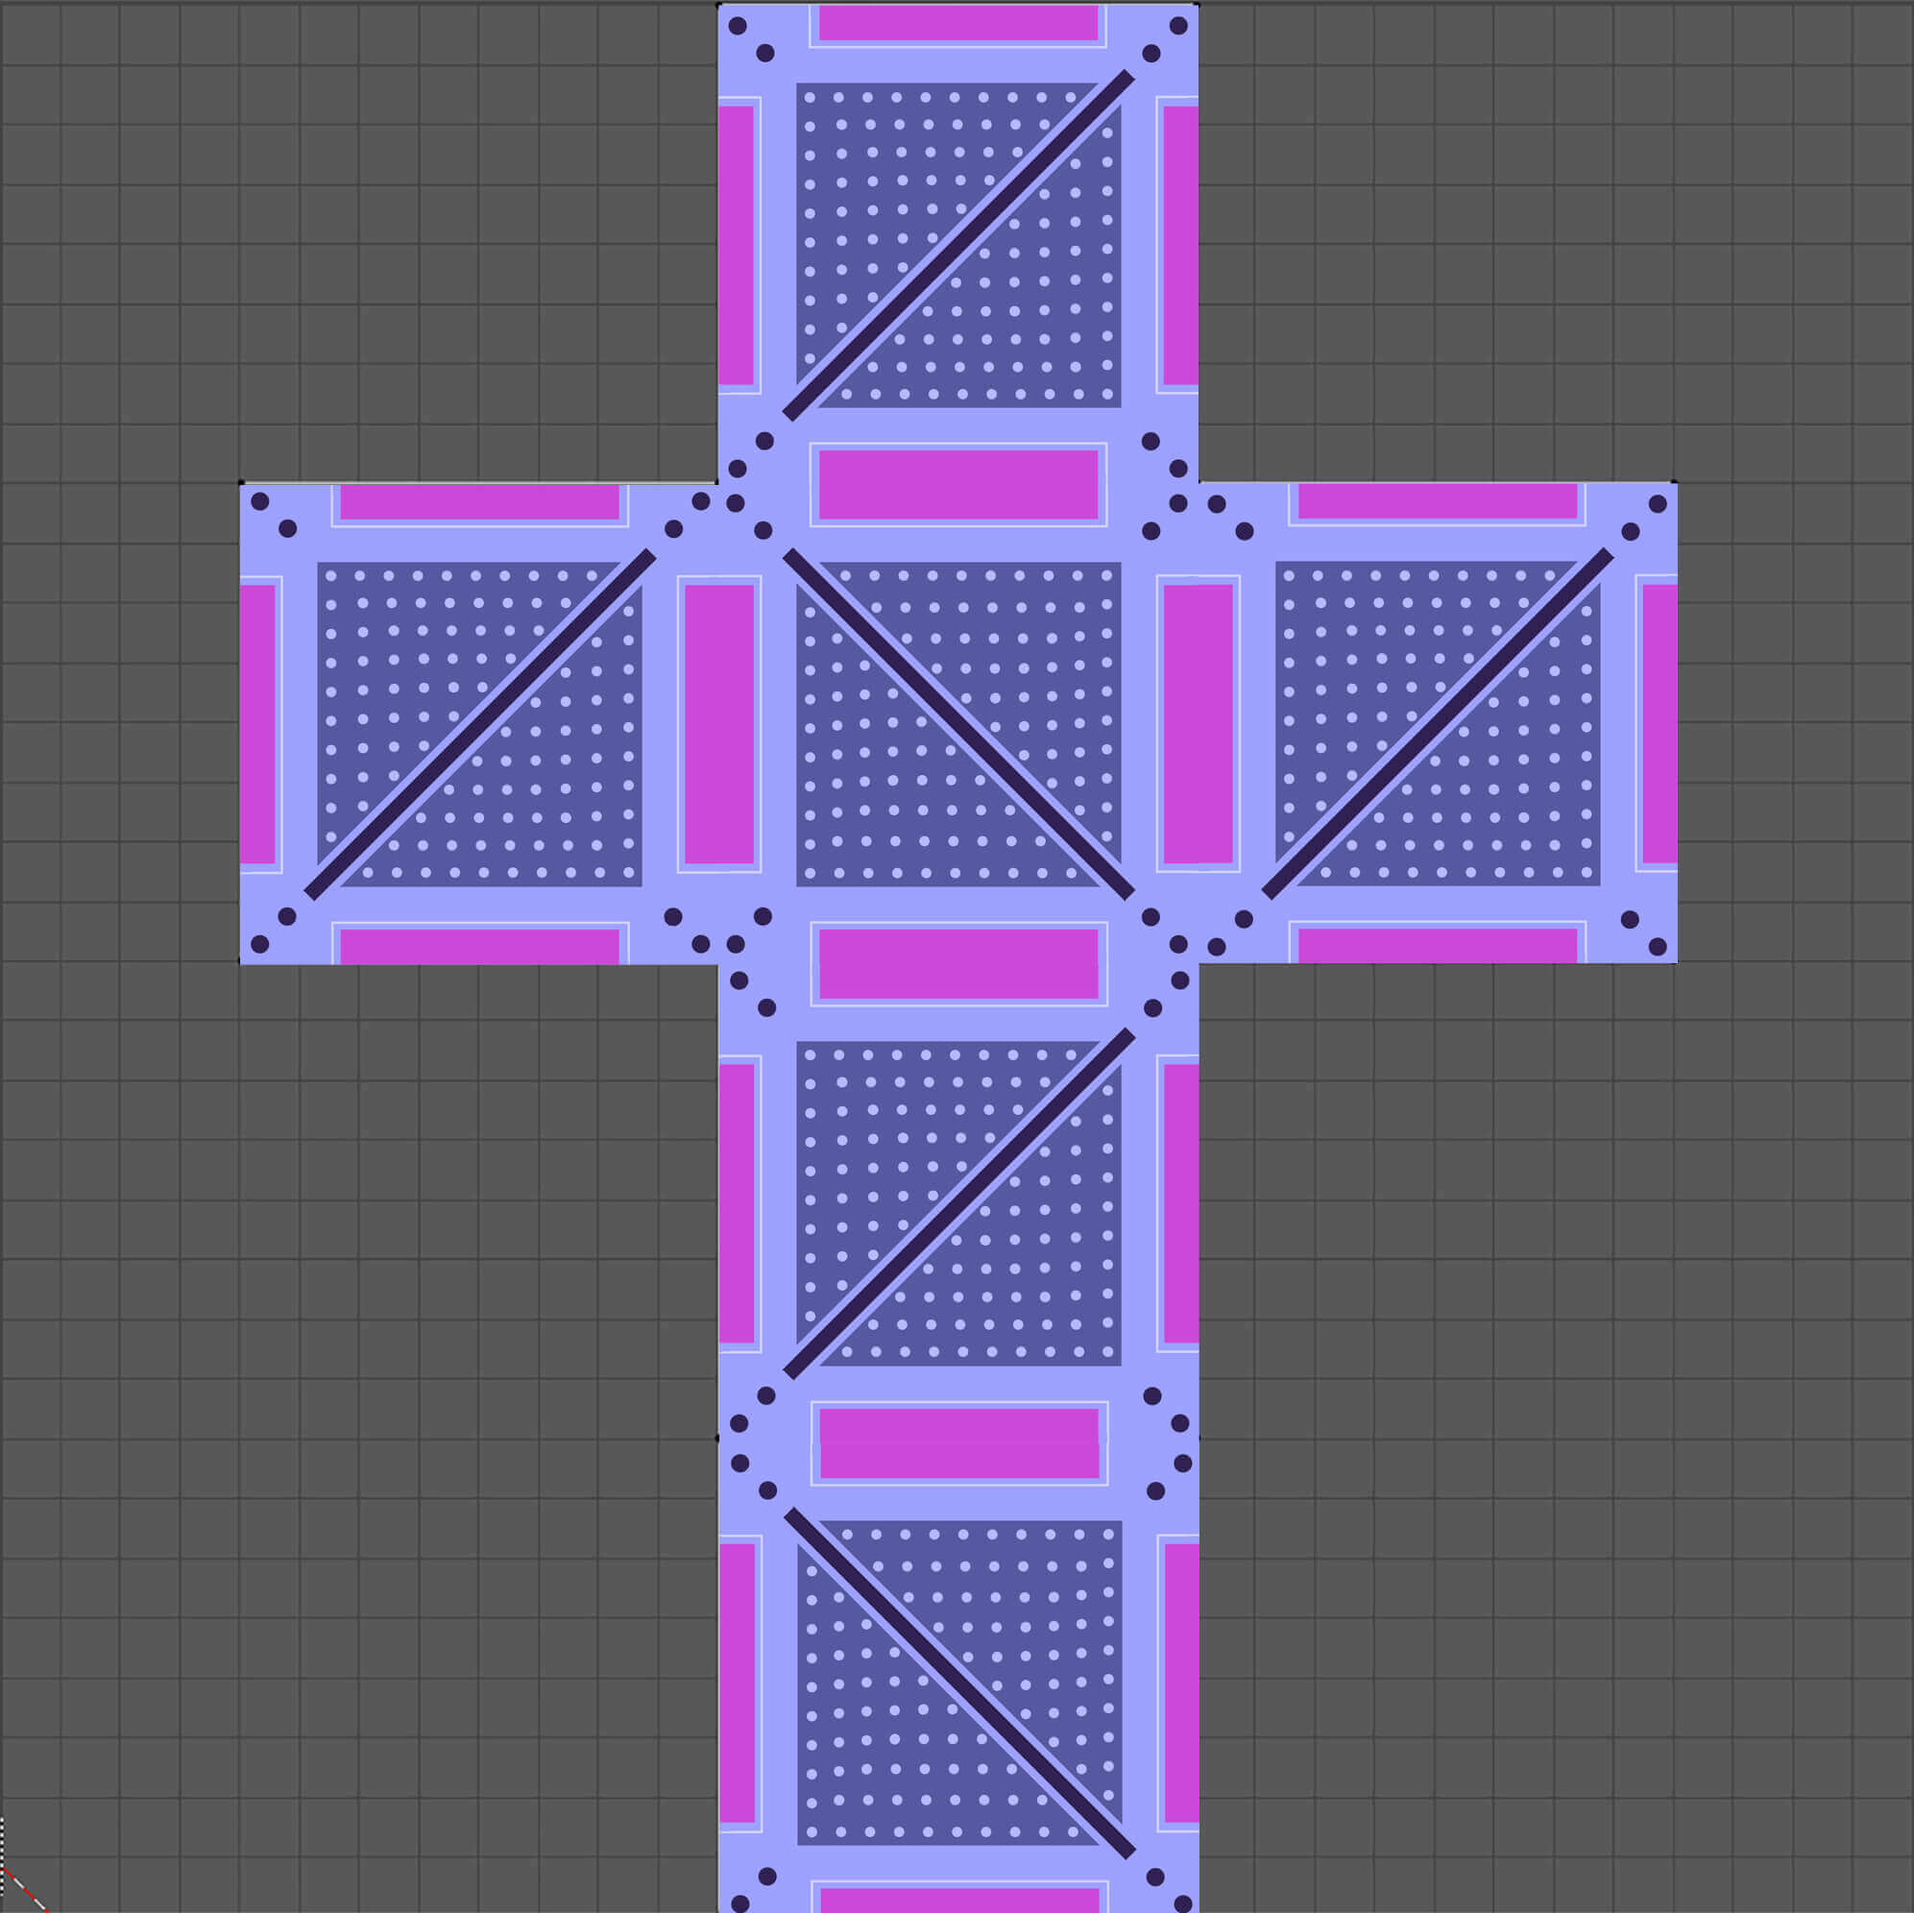
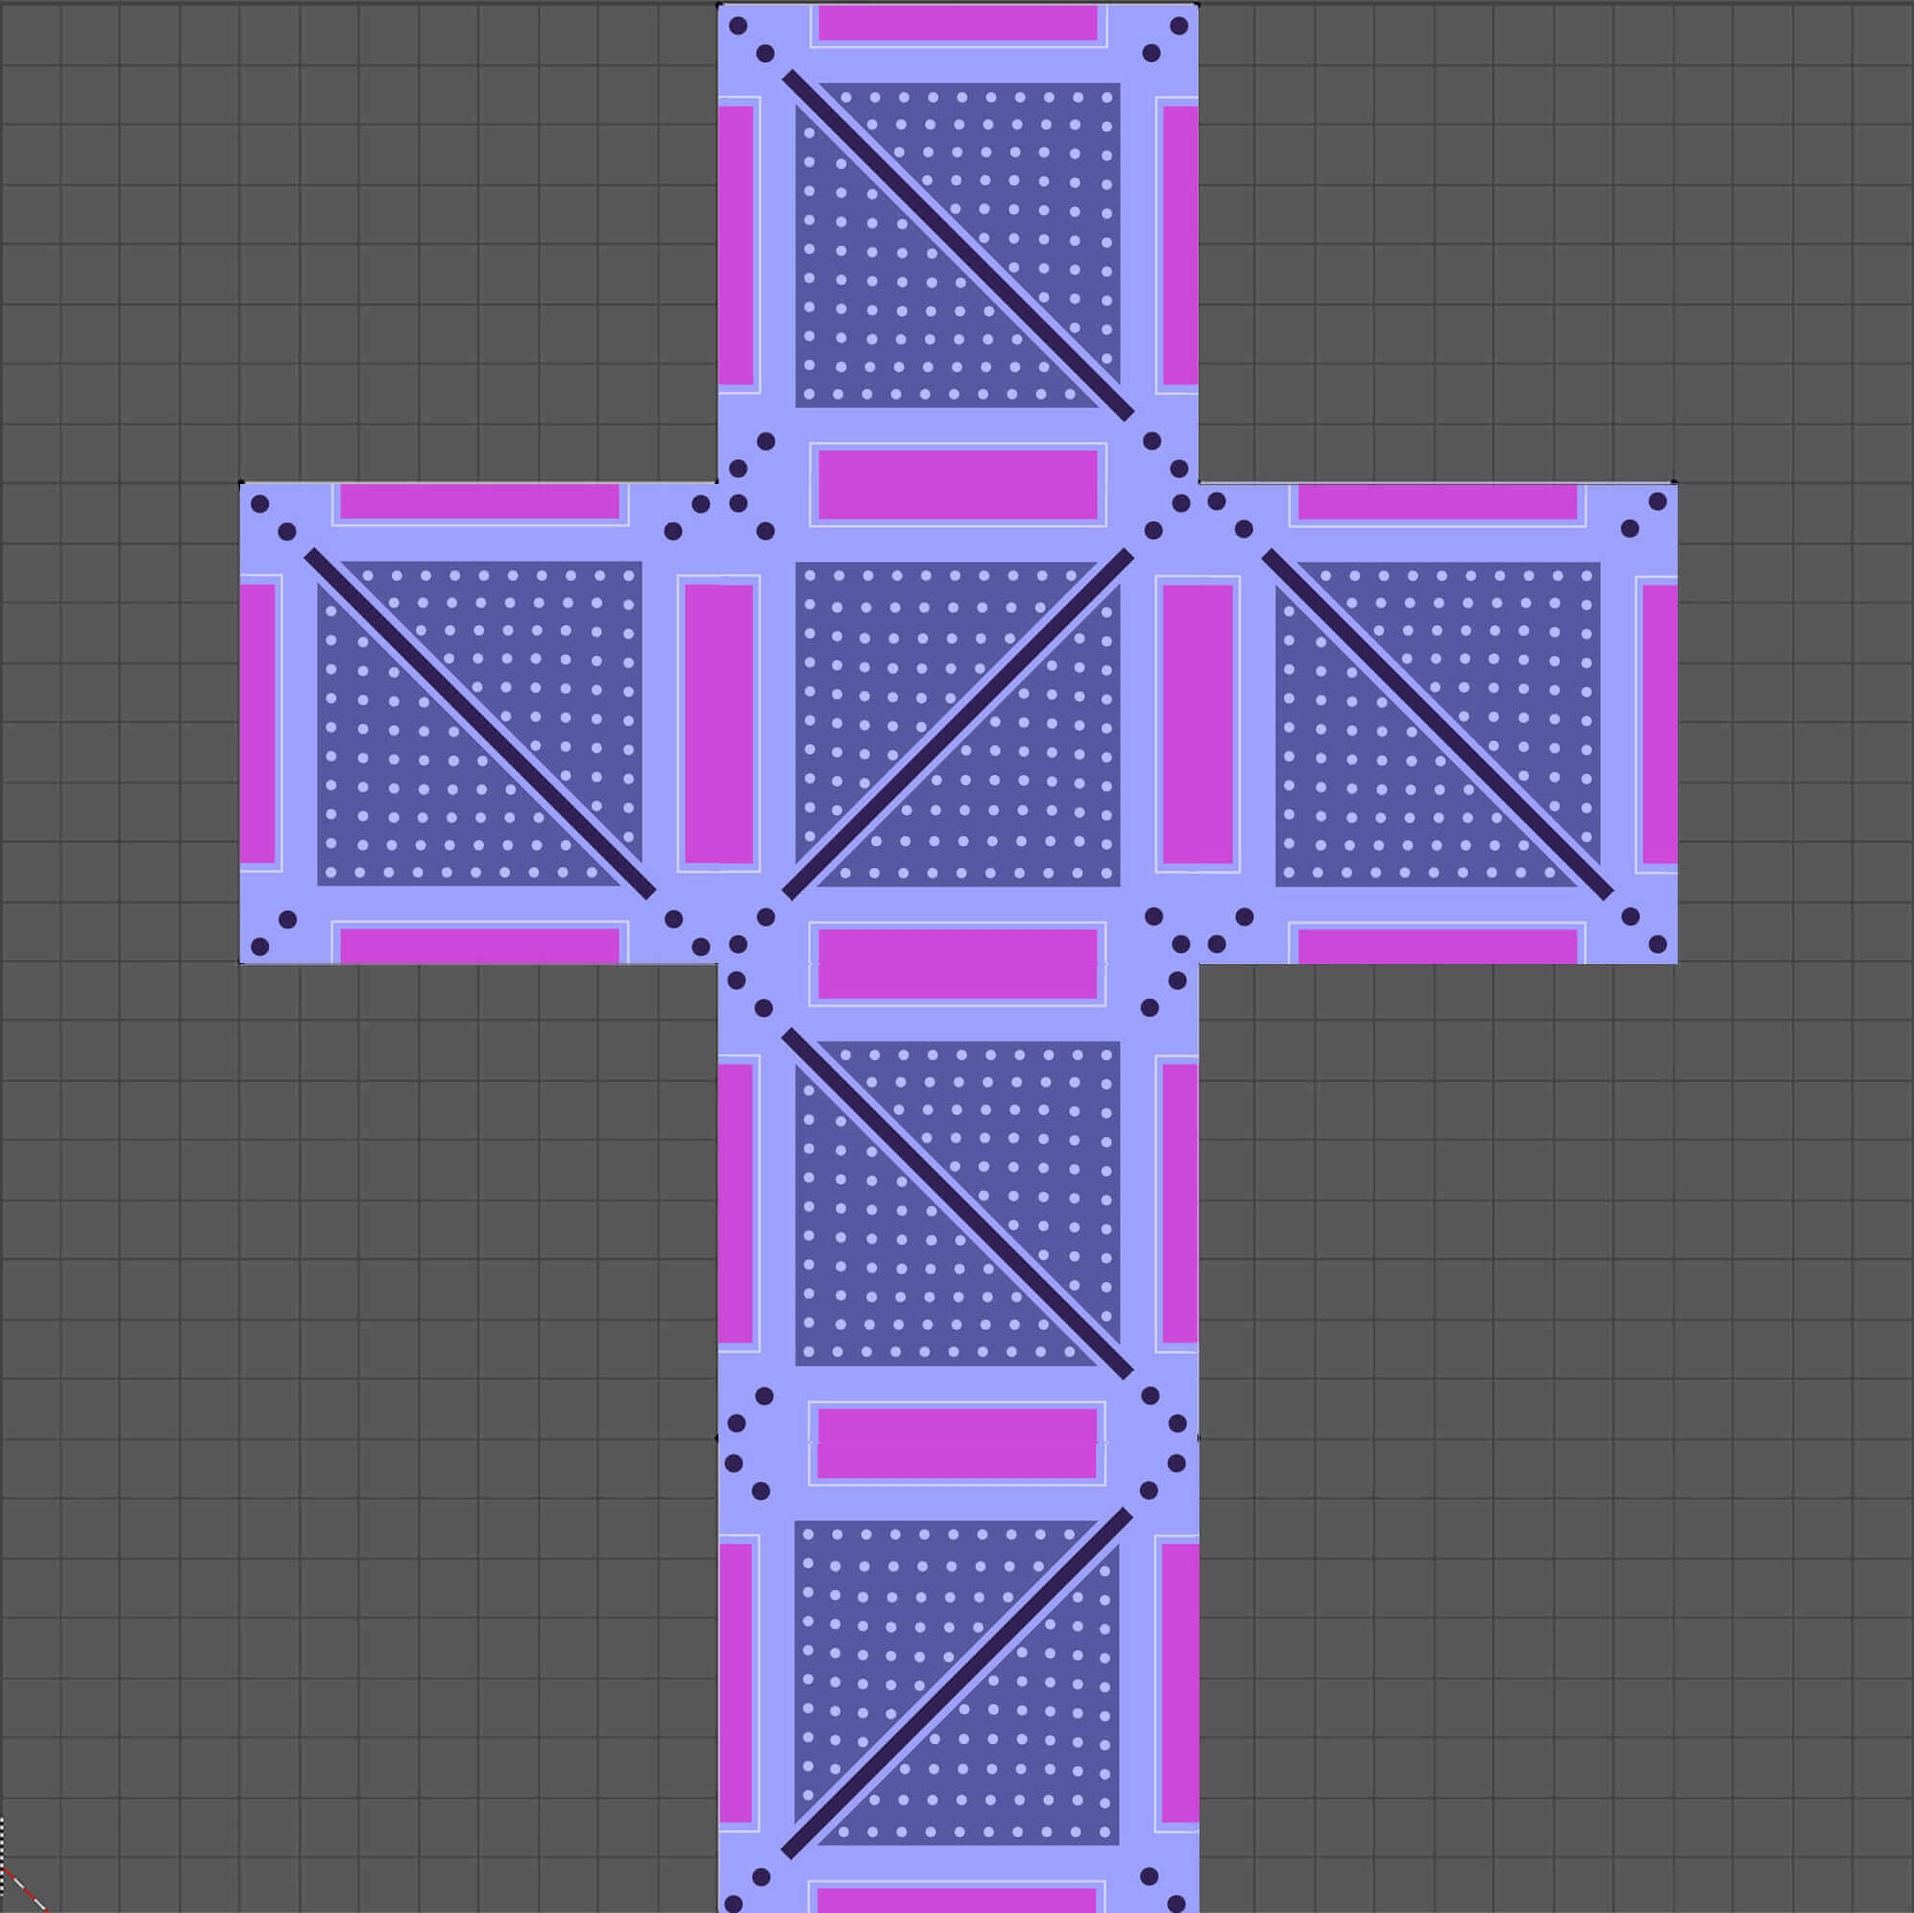
feat: added new terrains and asset packs (#1320)
* new future terrain

* added ancient terrain

* fixed ancient terrain and minimised jpeg

* added modern terrain

* modern terrain fix

* changed ancient terrain and asset pack tile size

* made changes in code to reflect new eras added

* flipped faces of future obstacles

* lint fixes

* Merge branch 'development' into new_terrains

* removed TODOs and updated babylon docs

diff --git a/game_frontend/src/babylon/assetPacks/ancient.ts b/game_frontend/src/babylon/assetPacks/ancient.ts
@@ -1,0 +1,38 @@
+import {
+  StandardMaterial,
+  Texture,
+  Color3,
+  Vector3,
+  TransformNode,
+  AbstractMesh,
+  Scene
+} from 'babylonjs'
+import AssetPack from './assetPack'
+
+export default class AncientAssetPack extends AssetPack {
+    obstacleMaterial: StandardMaterial
+
+    constructor (era: string, scene: Scene) {
+      super(era, scene)
+      this.obstacleMaterial = this.makeObstacleMaterial()
+    }
+
+    makeObstacleMaterial (): StandardMaterial {
+      const material = new StandardMaterial(this.obstacleInfo.materialName, this.scene)
+      material.diffuseTexture = new Texture(this.obstacleInfo.textureURL, this.scene)
+      material.specularColor = new Color3(0, 0, 0)
+      material.diffuseColor = new Color3(1, 1, 1)
+      return material
+    }
+
+    async createObstacle (
+      name: string,
+      location: Vector3,
+      parent: TransformNode
+    ): Promise<AbstractMesh> {
+    // There are two different models for the same texture, but only one is used in here for now
+      const obstacle = await super.createObstacle(name, location, parent)
+      obstacle.material = this.obstacleMaterial
+      return obstacle
+    }
+}

diff --git a/game_frontend/src/babylon/assetPacks/wrongFuture.ts b/game_frontend/src/babylon/assetPacks/wrongFuture.ts
@@ -1,0 +1,37 @@
+import {
+  StandardMaterial,
+  Texture,
+  Color3,
+  Vector3,
+  TransformNode,
+  AbstractMesh,
+  Scene
+} from 'babylonjs'
+import AssetPack from './assetPack'
+
+export default class WrongFutureAssetPack extends AssetPack {
+    obstacleMaterial: StandardMaterial
+
+    constructor (era: string, scene: Scene) {
+      super(era, scene)
+      this.obstacleMaterial = this.makeObstacleMaterial()
+    }
+
+    makeObstacleMaterial (): StandardMaterial {
+      const material = new StandardMaterial(this.obstacleInfo.materialName, this.scene)
+      material.diffuseTexture = new Texture(this.obstacleInfo.textureURL, this.scene)
+      material.specularColor = new Color3(0, 0, 0)
+      material.diffuseColor = new Color3(1, 1, 1)
+      return material
+    }
+
+    async createObstacle (
+      name: string,
+      location: Vector3,
+      parent: TransformNode
+    ): Promise<AbstractMesh> {
+      const obstacle = await super.createObstacle(name, location, parent)
+      obstacle.material = this.obstacleMaterial
+      return obstacle
+    }
+}

diff --git a/game_frontend/src/babylon/assetPacks/getAssetPackForEra.ts b/game_frontend/src/babylon/assetPacks/getAssetPackForEra.ts
@@ -1,6 +1,9 @@
 import AssetPack from './assetPack'
 import FutureAssetPack from './future'
 import PreHistoryAssetPack from './preHistory'
+import AncientAssetPack from './ancient'
+import ModernAssetPack from './modern'
+import WrongFutureAssetPack from './wrongFuture'
 import { Scene } from 'babylonjs'
 
 export default function getAssetPackForEra (era: string, scene: Scene): AssetPack {
@@ -9,6 +12,12 @@ export default function getAssetPackForEra (era: string, scene: Scene): AssetPac
       return new FutureAssetPack(era, scene)
     case 'prehistory':
       return new PreHistoryAssetPack(era, scene)
+    case 'ancient':
+      return new AncientAssetPack(era, scene)
+    case 'modern':
+      return new ModernAssetPack(era, scene)
+    case 'wrongfuture':
+      return new WrongFutureAssetPack(era, scene)
     default:
       return new AssetPack(era, scene)
   }

diff --git a/game_frontend/src/babylon/assetPacks/modern.ts b/game_frontend/src/babylon/assetPacks/modern.ts
@@ -11,7 +11,7 @@ import {
   Scene
 } from 'babylonjs'
 
-export default class PreHistoryAssetPack extends AssetPack {
+export default class ModernAssetPack extends AssetPack {
   obstacleMaterial: StandardMaterial
 
   constructor (era: string, scene: Scene) {

diff --git a/game_frontend/src/babylon/assetPacks/assetPack.ts b/game_frontend/src/babylon/assetPacks/assetPack.ts
@@ -13,6 +13,8 @@ import {
 const tileSizes = {
   future: { w: 31, h: 31 },
   prehistory: { w: 1, h: 1 },
+  ancient: { w: 1, h: 1 },
+  modern: { w: 31, h: 31 },
   grid: { w: 31, h: 31 }
 }
 

diff --git a/docs/babylon/README.md b/docs/babylon/README.md
@@ -12,19 +12,30 @@ First, we will look at the file structure for the babylon part of the game page:
 ```
 babylon
 │
+├── assetPacks
+│   ├── assetPack.ts
+│   ├── future.ts
+│   ├── ...
+│   └── getAssetPackForEra.ts
+|
 ├── entities
 │   ├── avatarManager.test.ts
 │   ├── avatarManager.ts
+│   ├── ...
 │   └── index.ts
 │
 ├── environment
 │   ├── index.ts
 │   ├── light.test.ts
 │   ├── light.ts
-│   └── terrain.ts
+│   ├── ...
+│   ├── environment.ts
+│   └── environmentManager.ts
 │
 ├── animation.ts
-├── interfaces.test.ts
+├── diff.ts
+├── gameEngine.ts
+├── ...
 ├── interfaces.ts
 └── orientation.ts
 ```
@@ -33,5 +44,7 @@ babylon
 We split the remaining elements of the game into two folders: 
 * **entities**: These populate the game world, and cover elements such as obstacles, avatars, and interactables.
 * **environment**: The elements of the game that make up the world, such as camera, light and terrain, as well as the renderer.
+
+The files inside **assetPacks** handle the loading and processing different 2D and 3D assets required for each different level, or *era*, of the game. *NOTE: the way this is currently written, each era has one only type of obstacle. However, as pointed out in the corresponding files, there are different textures and models ready to be loaded when the randomising functionality is implemented.*
 
 All classes in these folders implement the `GameNode` interface. Entities also implement the `DiffHandling` interface.
